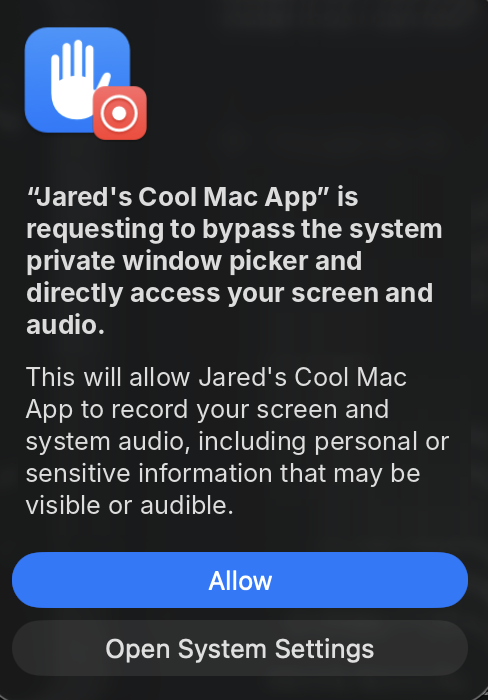
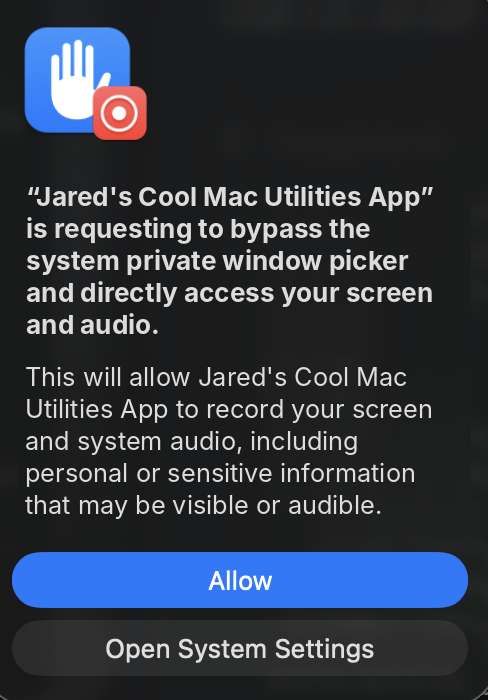
README: one Settings picture per permission, and the bubble pop tuner
The Accessibility and Screen Recording steps each show one mockup of the list with the app switched on, in place
of two cropped screenshots. The screen access alert names Jared's Cool Mac Utilities App, and the tuner picture is
the new bubble pop window.

Changed region(s): [[0.0307, 0.27, 0.9221, 0.48], [0.0307, 0.57, 0.9221, 0.75]]

diff --git a/README.md b/README.md
@@ -67,9 +67,7 @@ Hold Control (⌃) and Option (⌥) and press an arrow key to put the front wind
 2. When macOS asks, click **Open System Settings**.
 3. Turn on **Jared's Cool Mac Utilities App** and enter your password or use Touch ID. The keys work within a couple of seconds.
 
-   | Find the **Accessibility** list | Turn on **Jared's Cool Mac Utilities App** |
-   |---|---|
-   | <img src="docs/snapping-1-accessibility.png" width="360" alt="Accessibility settings: Allow the applications below to control your computer."> | <img src="docs/snapping-2-turn-on.png" width="440" alt="The app in the list, with its switch turned on"> |
+   <img src="docs/snapping-accessibility.png" width="400" alt="Accessibility settings: Allow the applications below to control your computer, with Jared's Cool Mac Utilities App in the list and its switch turned on">
 
 **Use it:**
 
@@ -94,9 +92,7 @@ Press ⌃⌥P to snip part of the screen, then copy it, save it, mark it up with
 1. Click the app's icon in the menu bar and turn on **Snipping Tool with control+option+P**. Nothing appears yet: macOS just adds the app to its list, switched off.
 2. Choose **Allow Screen Snipping…** in the app's menu, then turn on **Jared's Cool Mac Utilities App** and enter your password or use Touch ID.
 
-   | Find the **Screen & System Audio Recording** list | Turn on **Jared's Cool Mac Utilities App** |
-   |---|---|
-   | <img src="docs/snipping-1-screen-recording.png" width="400" alt="Screen & System Audio Recording settings: Allow the applications below to record the content of your screen and audio, even while using other applications."> | <img src="docs/snipping-2-turn-on.png" width="400" alt="The app in the list, with its switch off"> |
+   <img src="docs/snipping-screen-recording.png" width="400" alt="Screen & System Audio Recording settings, with Jared's Cool Mac Utilities App in the list and its switch turned on">
 
 3. Click **Quit & Reopen**.
 4. Take your first snip. macOS asks whether the app can bypass the system private window picker. Click **Allow**, then take the snip again. macOS asks this again about once a month.
@@ -139,7 +135,7 @@ Shows the note you're playing and how sharp or flat you are, and says **In tune*
 
 **Use it:** choose **Guitar Tuner…** in the app's menu, click **Allow** for the microphone the first time, and play a string. The app listens only while the tuner is open, and its menu bar icon turns green, then yellow, orange and red as the sound gets louder.
 
-<img src="docs/tuner.png" width="300" alt="The tuner showing B2, 22 cents sharp, at 125.1 Hz">
+<img src="docs/tuner.png" width="300" alt="The Guitar Tuner window showing B2, 22 cents sharp, at 125.1 Hz">
 
 It uses the input chosen in **System Settings → Sound → Input**, unless that's a Bluetooth or virtual input. Then it uses the Mac's own microphone, since opening a Bluetooth headset's microphone can make it suddenly much louder. On an audio interface, it uses the louder of inputs 1 and 2. It only ever listens and never plays sound.
 
